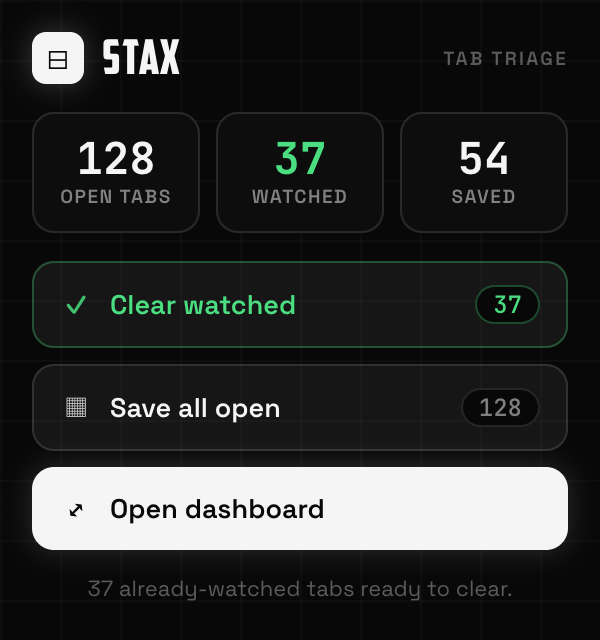
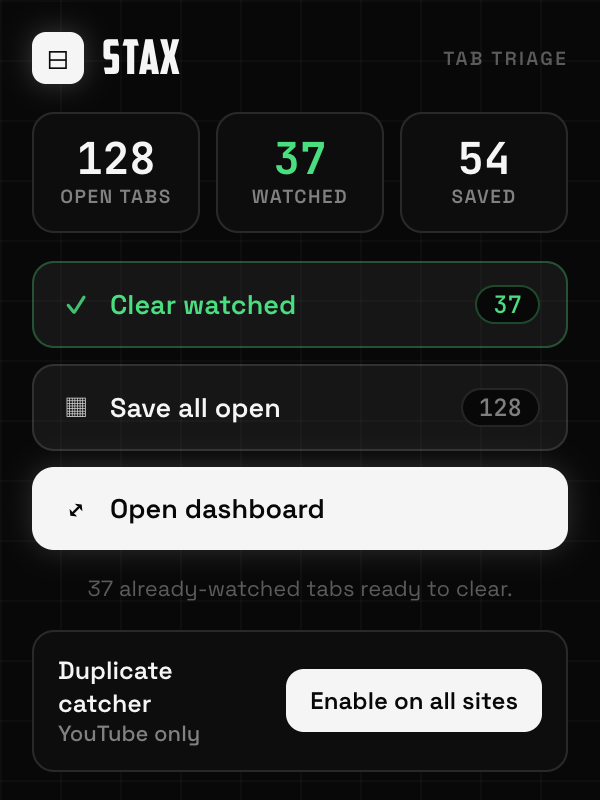
Move <all_urls> to optional permission (opt-in from popup); keep youtube.com as only required host to clear broad-host review

diff --git a/popup.js b/popup.js
@@ -168,8 +168,39 @@ async function refresh() {
   render();          // fill watched count
 }
 
+/* ---------- all-sites duplicate catcher (optional permission) ---------- */
+async function refreshAllSites() {
+  const granted = await chrome.permissions.contains({ origins: ["<all_urls>"] });
+  const state = $("#as-state");
+  const btn = $("#as-btn");
+  if (granted) {
+    state.textContent = "On — every site";
+    btn.textContent = "Turn off";
+    btn.classList.add("on");
+  } else {
+    state.textContent = "YouTube only";
+    btn.textContent = "Enable on all sites";
+    btn.classList.remove("on");
+  }
+}
+
+$("#as-btn").addEventListener("click", async () => {
+  const granted = await chrome.permissions.contains({ origins: ["<all_urls>"] });
+  if (granted) {
+    await chrome.permissions.remove({ origins: ["<all_urls>"] });
+  } else {
+    try {
+      await chrome.permissions.request({ origins: ["<all_urls>"] });
+    } catch (e) {
+      /* user dismissed the prompt */
+    }
+  }
+  refreshAllSites();
+});
+
 $("#open-dash").addEventListener("click", openDashboard);
 $("#clear-watched").addEventListener("click", clearWatched);
 $("#save-all").addEventListener("click", saveAllOpen);
 
+refreshAllSites();
 refresh();

diff --git a/popup.css b/popup.css
@@ -162,4 +162,24 @@ body {
   margin: 12px 2px 0; text-align: center;
   font-size: 11px; color: var(--faint);
 }
+
+/* All-sites opt-in toggle */
+.allsites {
+  display: flex; align-items: center; gap: 10px;
+  margin-top: 14px; padding: 11px 12px;
+  background: var(--bg-2);
+  border: 1px solid var(--line);
+  border-radius: 11px;
+}
+.as-txt { font-size: 12.5px; font-weight: 600; line-height: 1.3; }
+.as-txt small { display: block; font-size: 11px; font-weight: 500; color: var(--muted); }
+.as-btn {
+  margin-left: auto;
+  padding: 7px 11px;
+  background: var(--accent); border: 1px solid var(--accent); color: var(--accent-ink);
+  border-radius: 9px; font-family: var(--font-body);
+  font-size: 12px; font-weight: 600; cursor: pointer; white-space: nowrap;
+}
+.as-btn.on { background: transparent; border-color: var(--green-border); color: var(--green); }
+
 .hidden { display: none !important; }

diff --git a/background.js b/background.js
@@ -78,9 +78,23 @@ async function checkDuplicate(tabId, url) {
   }
 }
 
+// The cross-site duplicate banner needs <all_urls>, which is an OPTIONAL
+// permission the user can turn on. YouTube duplicates always work because
+// youtube.com is a required host. Track the grant so we only act when allowed.
+let allowAllSites = false;
+chrome.permissions.contains({ origins: ["<all_urls>"] }, (r) => { allowAllSites = !!r; });
+chrome.permissions.onAdded.addListener((p) => {
+  if (p.origins && p.origins.includes("<all_urls>")) allowAllSites = true;
+});
+chrome.permissions.onRemoved.addListener((p) => {
+  if (p.origins && p.origins.includes("<all_urls>")) allowAllSites = false;
+});
+
+const isYouTubeUrl = (u) => u.includes("youtube.com") || u.includes("youtu.be");
+
 chrome.tabs.onUpdated.addListener((tabId, info, tab) => {
   if (info.status === "complete" && tab.url && /^https?:/.test(tab.url)) {
-    checkDuplicate(tabId, tab.url);
+    if (isYouTubeUrl(tab.url) || allowAllSites) checkDuplicate(tabId, tab.url);
   }
 });
 

diff --git a/popup.html b/popup.html
@@ -43,6 +43,11 @@
 
     <p class="status hidden" id="status"></p>
     <p class="hint" id="hint">Scanning your YouTube tabs…</p>
+
+    <div class="allsites" id="allsites">
+      <div class="as-txt">Duplicate catcher<small id="as-state">YouTube only</small></div>
+      <button class="as-btn" id="as-btn">Enable on all sites</button>
+    </div>
   </div>
 
   <script src="popup.js"></script>

diff --git a/store/STORE_LISTING.md b/store/STORE_LISTING.md
@@ -80,11 +80,20 @@ Used to read the play position of YouTube videos (to mark watched videos and sho
 to display the "already open in another tab" banner. No page content is collected or transmitted.
 ```
 
-**host permission `<all_urls>`**
+**host permission `*://*.youtube.com/*`** (the only required host)
 ```
-Required so the duplicate-tab banner can appear on any site the user opens, and so YouTube watch
-progress can be read on youtube.com. Access is used only for these two features; Stax reads no
-other page data and sends nothing off-device.
+Required to read the play position of YouTube videos (the video element's current time) so Stax
+can mark videos as watched and show live progress, and to show the duplicate-tab banner on
+youtube.com. Access is used only for these features and no page data leaves the device.
+```
+
+**Optional host permission `<all_urls>`** (requested at runtime, not required)
+```
+<all_urls> is declared as an OPTIONAL permission and is NOT requested on install. The user can
+turn it on from the popup ("Enable on all sites") to extend the duplicate-tab banner to non-
+YouTube sites. Until the user grants it, Stax only acts on youtube.com. It is requested via
+chrome.permissions.request() in response to a user click, used solely for the duplicate banner,
+and transmits nothing.
 ```
 
 ## Data usage disclosures (Privacy practices tab)

diff --git a/PRIVACY.md b/PRIVACY.md
@@ -23,11 +23,15 @@ history") or by removing the extension.
 - **Tabs** (`tabs`) — to list your open tabs and their titles/URLs so you can search, group,
   save, switch to, or close them.
 - **Storage** (`storage`) — to keep your saved lists and watched history on your device.
-- **Scripting + host access** (`scripting`, `<all_urls>`) — used for exactly two things:
+- **Scripting + YouTube host access** (`scripting`, `*://*.youtube.com/*`) — used for exactly two
+  things:
   1. Reading the play position of YouTube videos (the `<video>` element's current time) to tag
      watched videos and show live progress.
   2. Showing the "already open in another tab" banner on a page that duplicates one you already
      have open.
+- **Optional all-sites access** (`<all_urls>`, off by default) — only requested if you turn on
+  "Enable on all sites" in the popup, which extends the duplicate-tab banner to non-YouTube
+  sites. You can revoke it anytime. It is used solely for that banner and transmits nothing.
 
   Stax does not read page content, form data, passwords, or browsing history beyond the tab
   titles and URLs needed for the features above, and none of it is transmitted anywhere.

diff --git a/README.md b/README.md
@@ -126,8 +126,10 @@ lists and watched history live in `chrome.storage.local`.
 **Permissions:**
 - `tabs` — read tab titles/URLs and open/close/switch tabs.
 - `storage` — save your lists and watched history locally.
-- `scripting` + `<all_urls>` — read YouTube play position and show the duplicate-tab banner on
-  any site. Used only for those two things; nothing is sent anywhere.
+- `scripting` + `youtube.com` host — read YouTube play position and show the duplicate banner on
+  YouTube. Used only for those two things; nothing is sent anywhere.
+- `<all_urls>` — **optional, off by default.** Enable "all sites" from the popup to extend the
+  duplicate-tab banner beyond YouTube. Revocable anytime.
 
 ---
 